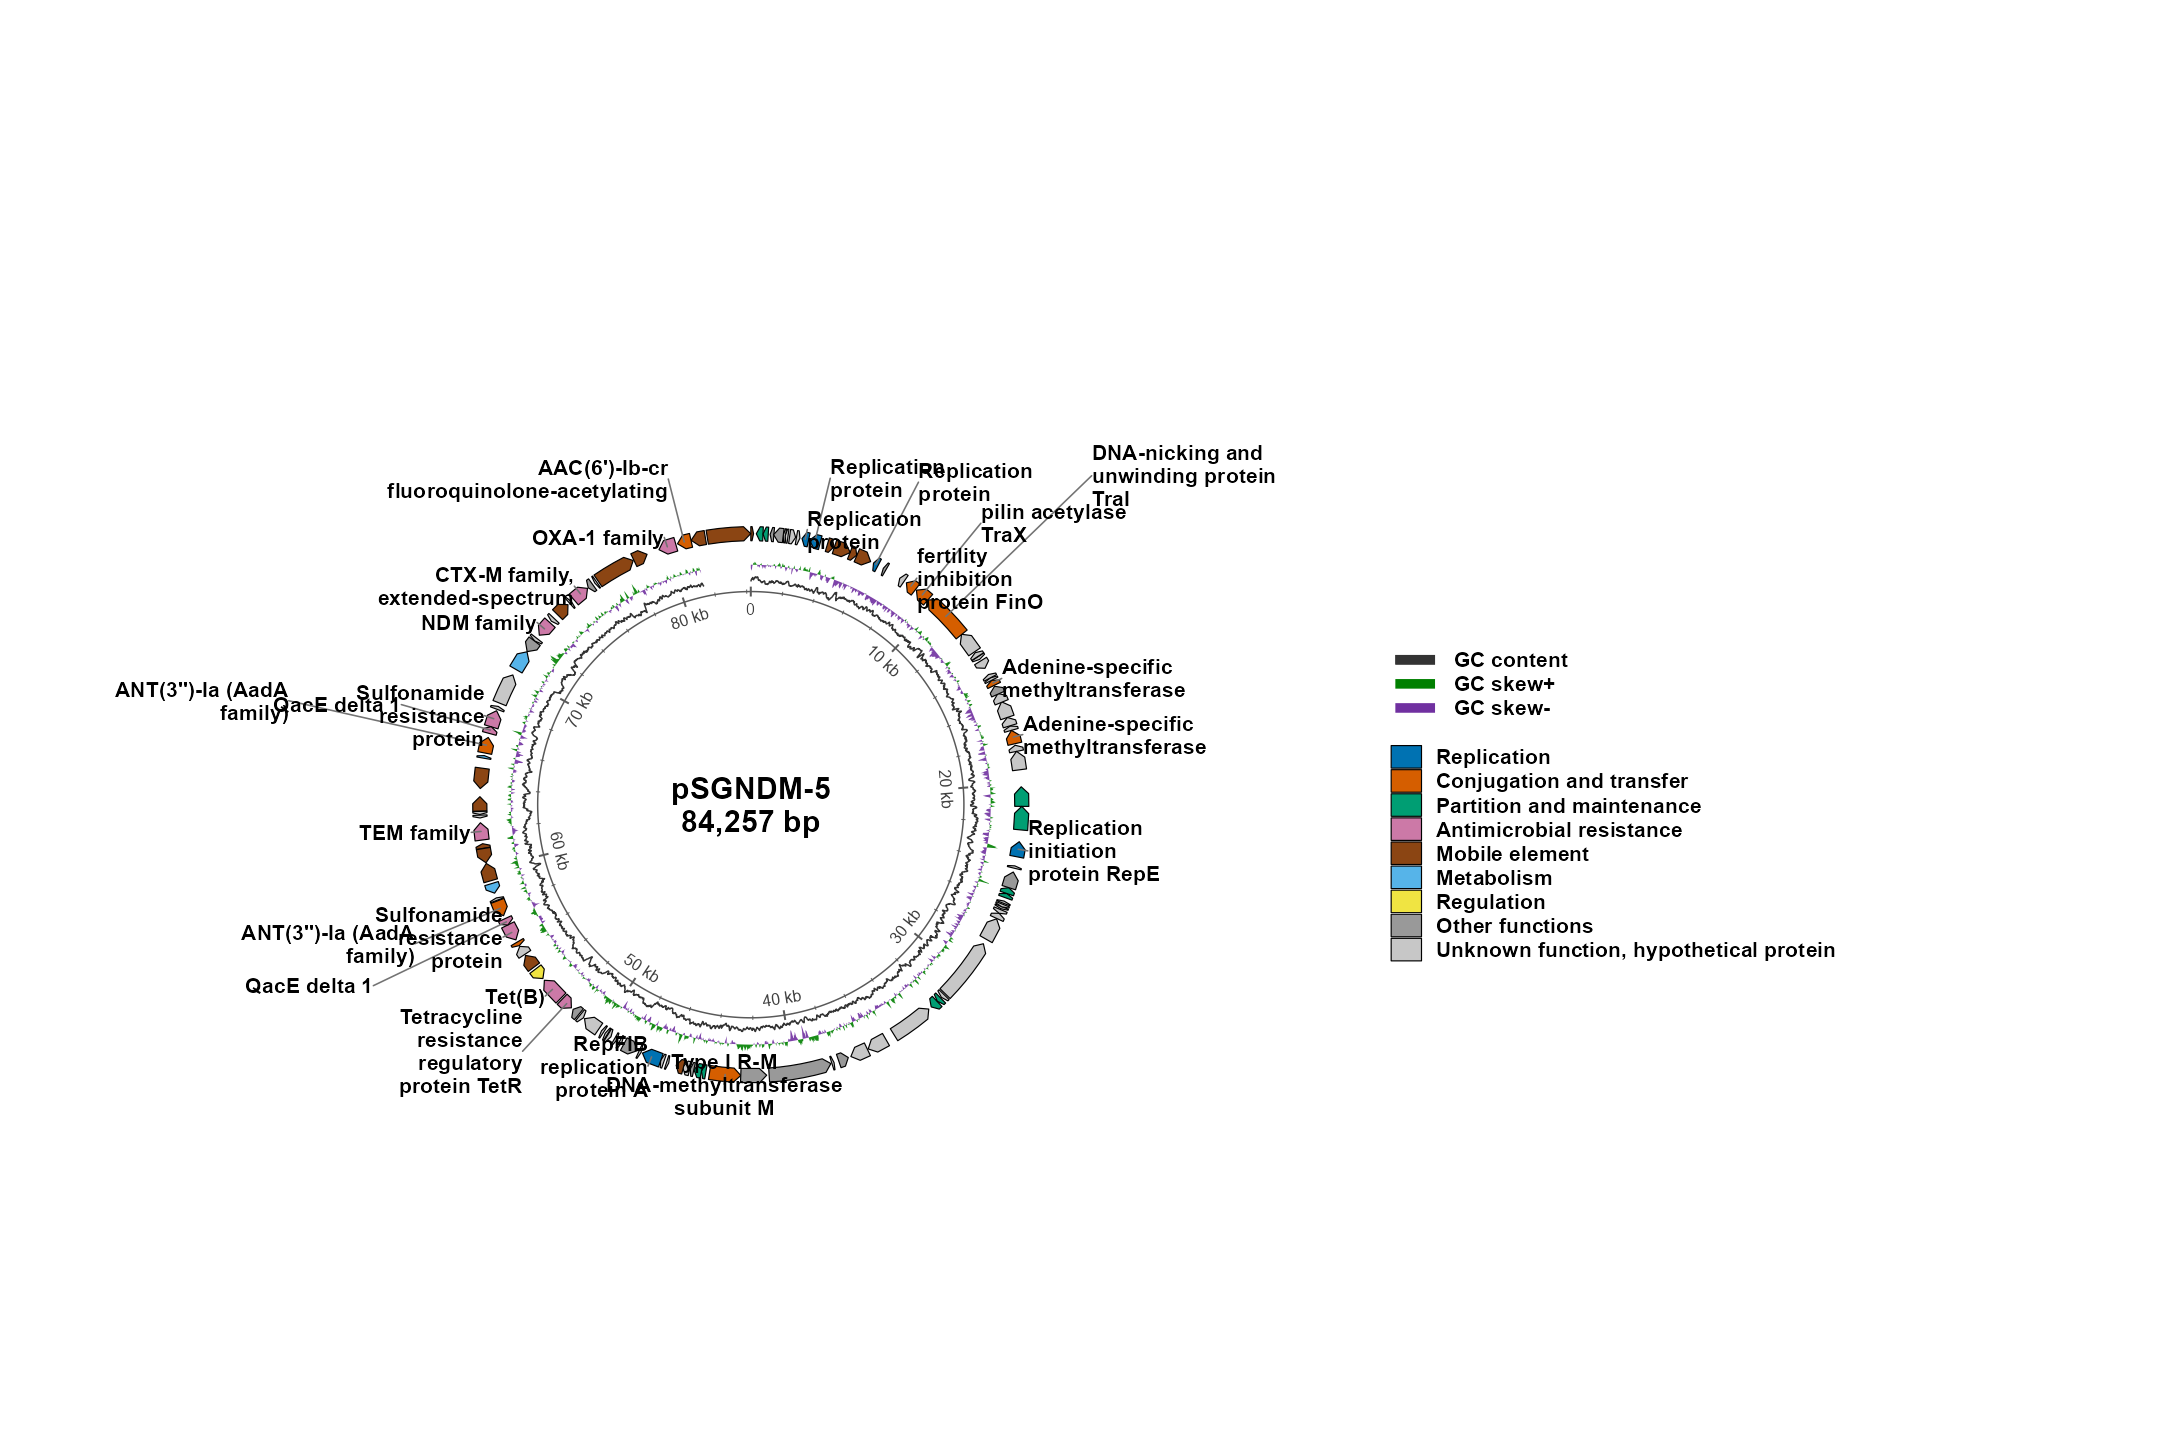
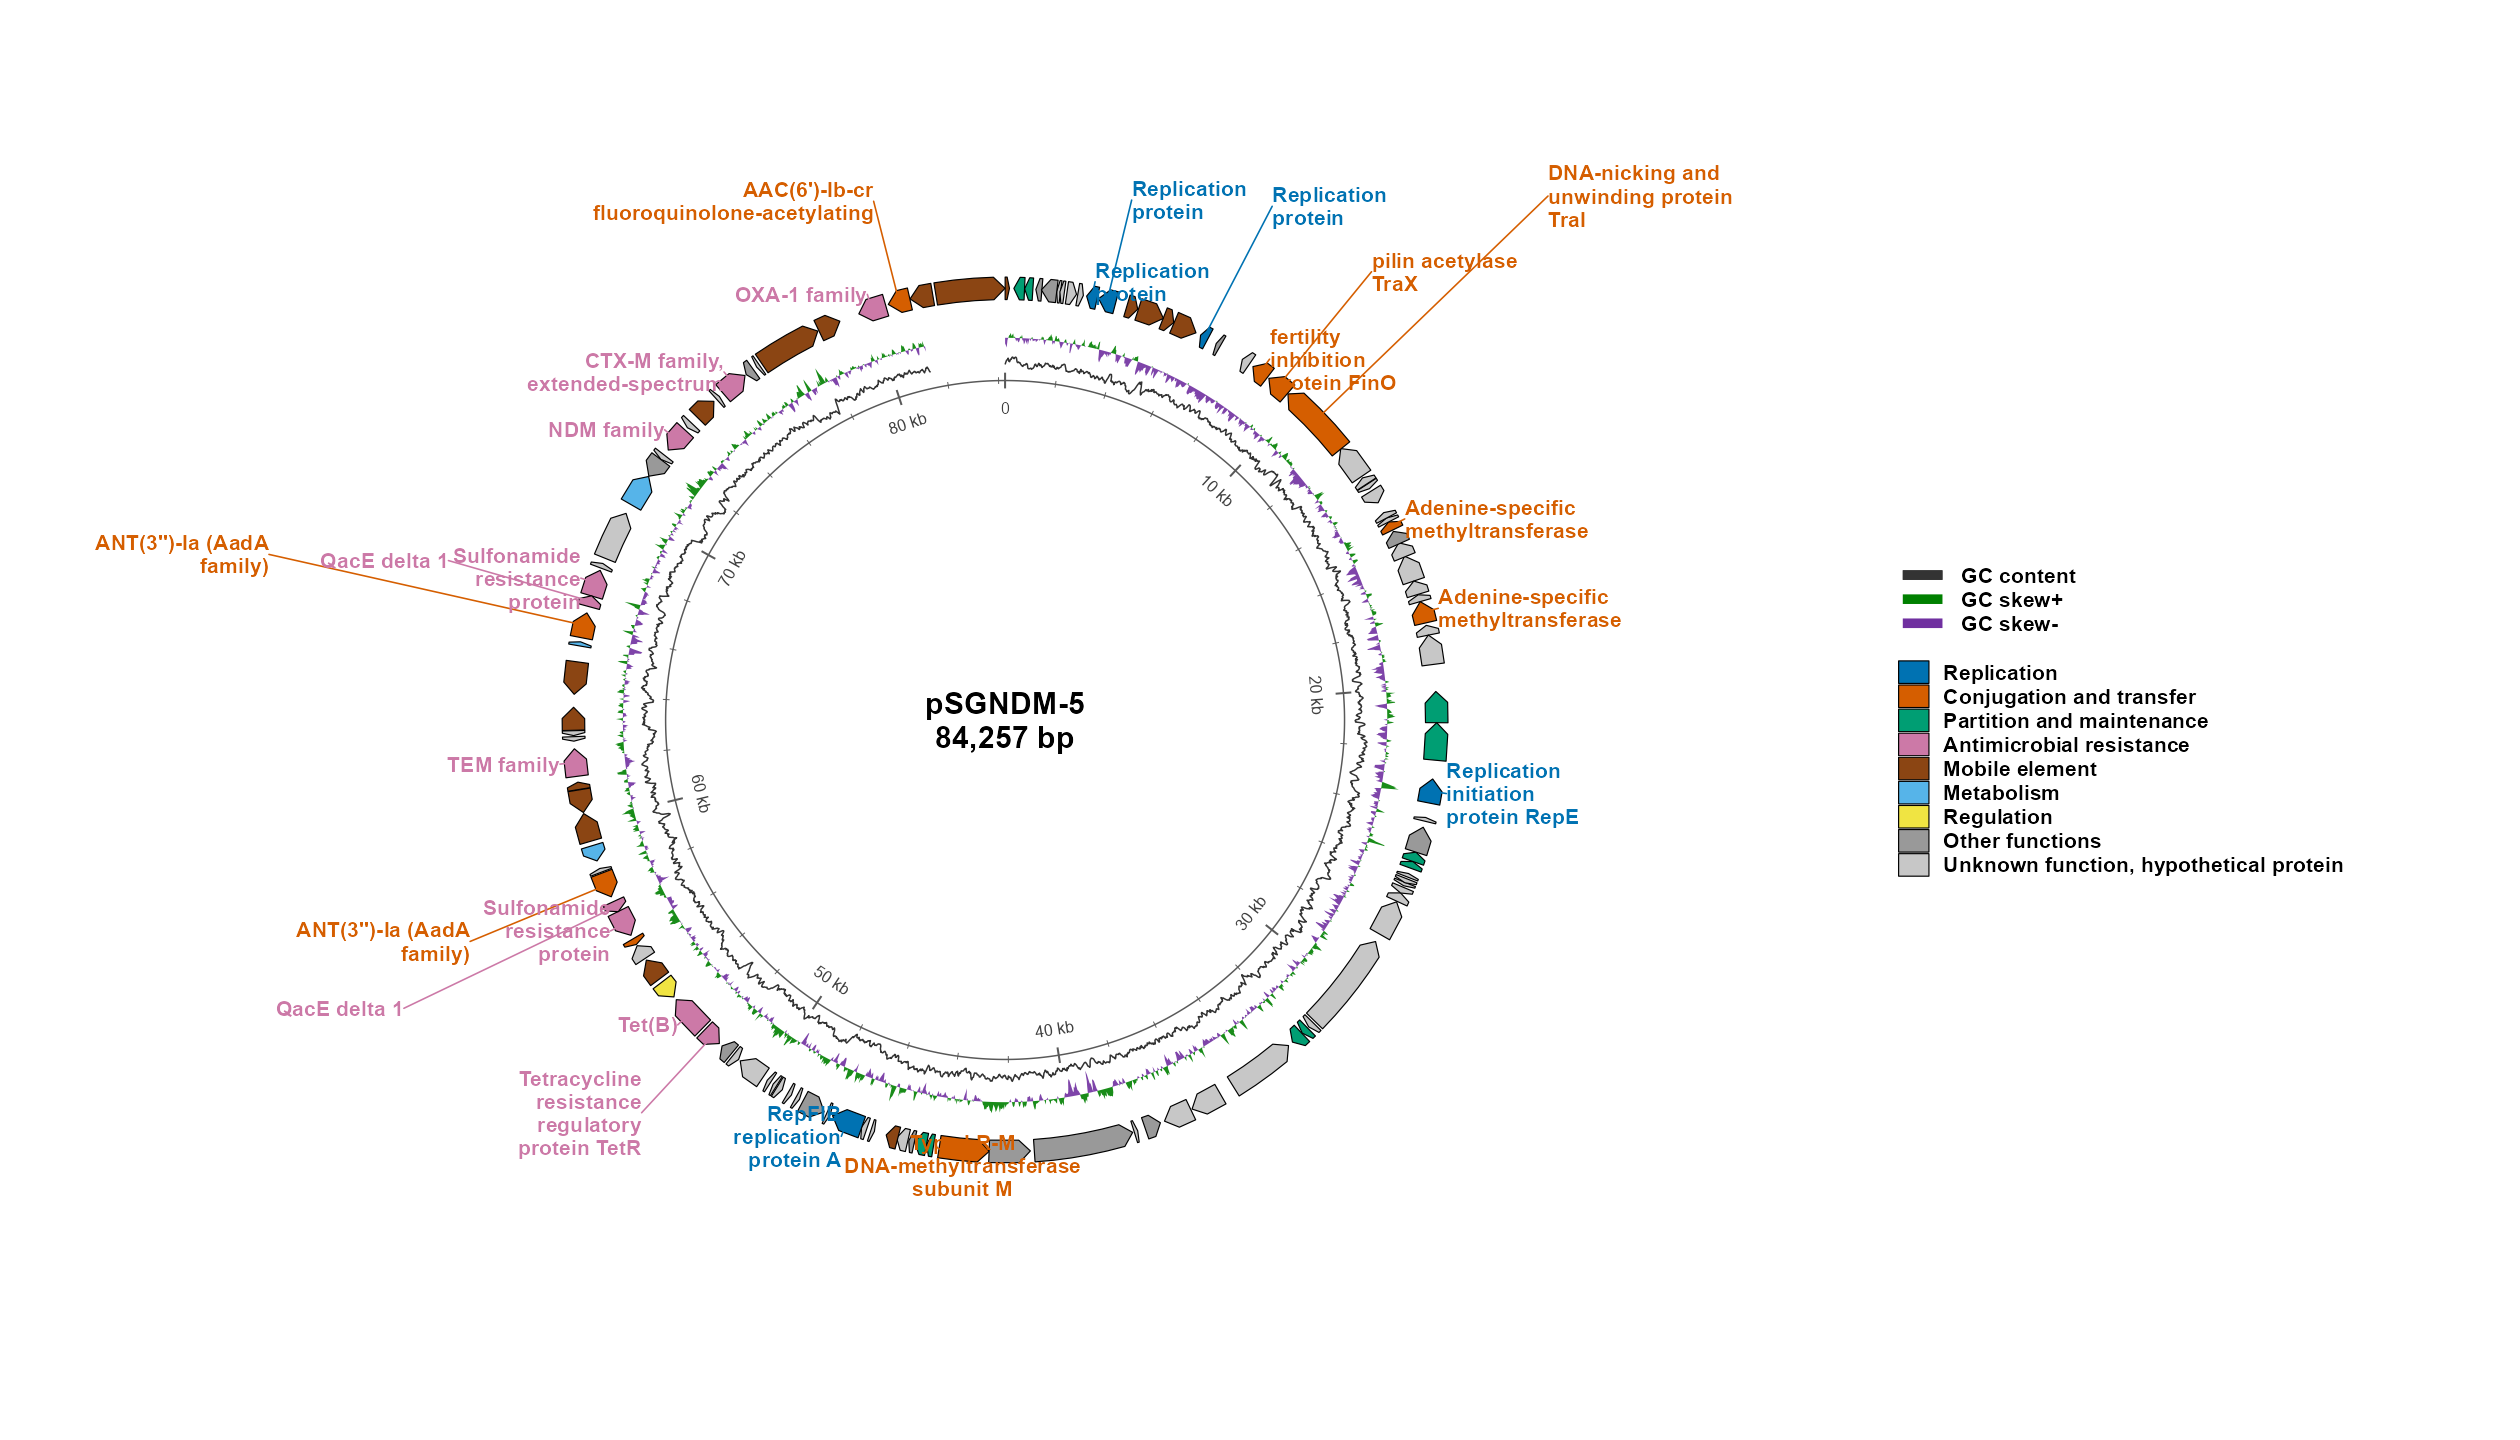
Improve README plot spacing and colored labels

diff --git a/README.md b/README.md
@@ -48,7 +48,9 @@ p <- ggplasmid(
   legend_position = "right",
   max_labels = 24,
   label_wrap_width = 18,
-  label_text_size = 3.0
+  label_text_size = 3.0,
+  label_text_colour = "category",
+  label_line_colour = "category"
 )
 
 p
